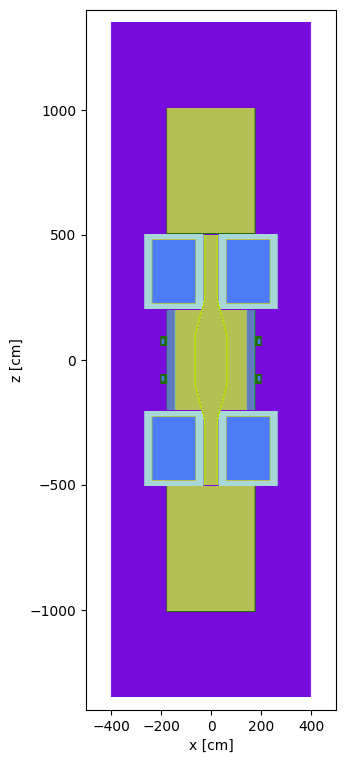
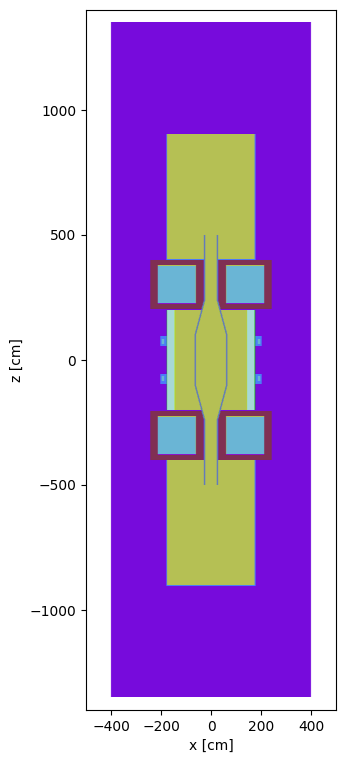
No Python inputs

Changed region(s): [[0.4046, 0.1206, 0.8092, 0.8139]]

diff --git a/model_constructor.py b/model_constructor.py
@@ -2,7 +2,6 @@ import openmc
 import numpy as np
 import matplotlib.pyplot as plt
 import material as m
-import parametric_input as param
 from geometry_lib import *
 from source_lib import *
 import yaml
@@ -88,14 +87,6 @@ central_cell = input_data.get("central_cell", {})
 central_cell_axial_length = central_cell.get("axial_length")
 
 central_cell_length_from_midplane = central_cell_axial_length / 2
-
-# Extract thickness values for different layers from parameters
-# breeder_thickness = param.breeding_blanket_thickness
-# back_wall_thickness = param.back_wall_thickness
-# he_manifold_thickness = param.helium_manifold_thickness
-# shield_front_plate_thickness = param.HT_shield_face_plate_thickness
-# shield_thickness = param.HT_shield_filler_thickness
-# shield_back_plate_thickness = param.HT_shield_back_plate_thickness
 
 # Load predefined central cell layers (thickness, material) from parameters
 
@@ -214,18 +205,16 @@ hf_coil = input_data.get("hf_coil", [])
 hf_coil_shield = hf_coil.get("shield",[])
 hf_coil_magnet = hf_coil.get("magnet", [])
 
+casing_layers_thickness  = np.array([layer["thickness"] for layer in hf_coil.get("casing_layers", [])])
+casing_layers_materials = np.array([getattr(m, layer["material"]) for layer in hf_coil.get("casing_layers",[])])
 
 hf_coil_center_z0 = (
     central_cell_length_from_midplane  
     + hf_coil_shield["shield_central_cell_gap"]           # Gap between HF shield and central cell
     + hf_coil_shield["axial_thickness"][0]    # Axial thickness of the shield (toward midplane)
-    + np.sum(param.hf_coil_casing_thicknesses)   # Total casing thickness
+    + np.sum(casing_layers_thickness)   # Total casing thickness
     + hf_coil_magnet["axial_thickness"] / 2          # Half of the magnet's axial thickness
 )
-
-# --- Define Casing Layer Thicknesses ---
-# The thickness values for different layers of the casing (e.g., vacuum, aluminum, steel)
-layers = param.hf_coil_casing_thicknesses
 
 # --- Compute Inner Radius for Magnet and Casing ---
 # The inner radius is determined by the bottleneck cylinder radius, the shield thickness,
@@ -233,7 +222,7 @@ layers = param.hf_coil_casing_thicknesses
 inner_radius_magnet_casings = (
     bottleneck_cylinders_radii[-1]               # Outermost bottleneck cylinder radius
     + hf_coil_shield["radial_thickness"][0]   # Shield thickness (toward central axis)
-    + hf_coil_shield["radial_gap_before_casing "]            # Extra spacing before the casing begins
+    + hf_coil_shield["radial_gap_before_casing"]            # Extra spacing before the casing begins
 )
 
 # --- Define Regions for Left and Right HF Coils ---
@@ -244,7 +233,7 @@ shield_regions_right = nested_cylindrical_shells(
     inner_radius_magnet_casings, 
     hf_coil_magnet["radial_thickness"], 
     hf_coil_magnet["axial_thickness"], 
-    layers, layers, layers
+    casing_layers_thickness, casing_layers_thickness, casing_layers_thickness
 )
 
 shield_regions_left = nested_cylindrical_shells(
@@ -252,7 +241,7 @@ shield_regions_left = nested_cylindrical_shells(
     inner_radius_magnet_casings, 
     hf_coil_magnet["radial_thickness"], 
     hf_coil_magnet["axial_thickness"], 
-    layers, layers, layers
+    casing_layers_thickness, casing_layers_thickness, casing_layers_thickness
 )
 
 # --- Define the HF Magnet Region ---
@@ -271,7 +260,7 @@ room_region &= ~ (hf_magnet_region_left | hf_magnet_region_right)  # Exclude mag
 # We iterate over these layers, assigning them the corresponding casing material.
 for i in range(1, len(shield_regions_left)):  
     combined_region = shield_regions_left[i] | shield_regions_right[i]
-    combined_region_cell = openmc.Cell(6500 + i, region=combined_region, fill=param.hf_coil_casing_materials[i - 1])
+    combined_region_cell = openmc.Cell(6500 + i, region=combined_region, fill=casing_layers_materials[i - 1])
 
     universe_machine.add_cells([combined_region_cell])
     room_region &= ~combined_region  # Exclude each casing layer from the room
@@ -282,19 +271,19 @@ for i in range(1, len(shield_regions_left)):
 # Total radial thickness of the HF outermost shell (coil + casing layers)
 inner_radial_thickness_hf_outermost_shell = (
     hf_coil_magnet["radial_thickness"] 
-    + 2 * np.sum(param.hf_coil_casing_thicknesses)  # Accounts for both sides of the casing
+    + 2 * np.sum(casing_layers_thickness)  # Accounts for both sides of the casing
 )
 
 # Total axial thickness of the HF outermost shell (coil + casing layers)
 inner_axial_thickness_hf_outermost_shell = (
     hf_coil_magnet["axial_thickness"] 
-    + 2 * np.sum(param.hf_coil_casing_thicknesses)  # Accounts for both sides of the casing
+    + 2 * np.sum(casing_layers_thickness)  # Accounts for both sides of the casing
 )
 
 # Compute the inner radius of the HF main shield (before applying the shell thickness)
 inner_radius_hf_main_shield = (
     bottleneck_cylinders_radii[-1]  # Outermost bottleneck radius
-    + param.radial_gap_before_casing  # Gap before casing begins
+    + hf_coil_shield["radial_gap_before_casing"]  # Gap before casing begins
 )
 
 # --- Define the HF Main Shield Region ---
@@ -325,13 +314,13 @@ hf_main_shield_left_region = hollow_cylinder_with_shell(
 hf_main_shield_right_cell = openmc.Cell(
     6201, 
     region=hf_main_shield_right_region, 
-    fill=param.hf_coil_main_shield_material  # Assign material to the shield
+    fill=getattr(m, hf_coil_shield["material"])   # Assign material to the shield
 )
 
 hf_main_shield_left_cell = openmc.Cell(
     6202, 
     region=hf_main_shield_left_region, 
-    fill=param.hf_coil_main_shield_material  # Assign material to the shield
+    fill=getattr(m, hf_coil_shield["material"])  # Assign material to the shield
 )
 
 # Add the HF main shield cell to the simulation
@@ -363,9 +352,9 @@ end_cell_radial_thickness = end_cell_diameter / 2  # Convert diameter to radius
 
 right_end_cell_z0 = (
     hf_coil_center_z0 
-    + param.hf_coil_shield_axial_thickness[0]  # Axial thickness of the shield (toward midplane)
-    + np.sum(param.hf_coil_casing_thicknesses)  # Total casing thickness
-    + param.hf_coil_axial_thickness / 2  # Half of the magnet's axial thickness
+    + hf_coil_shield["axial_thickness"][0]  # Axial thickness of the shield (toward midplane)
+    + np.sum(casing_layers_thickness)  # Total casing thickness
+    + hf_coil_magnet["axial_thickness"] / 2  # Half of the magnet's axial thickness
     + end_cell_shell_thickness  # Shell thickness of the end cell
     + end_cell_axial_length / 2  # Half of the end cell's axial length
 )
@@ -400,13 +389,13 @@ right_end_cell_shell &= ~vacuum_section_regions[-1]
 end_cell_left_shell_cell = openmc.Cell(
     5001, 
     region=left_end_cell_shell, 
-    fill=param.end_cell_shell_material  # Material for the shell
+    fill=getattr(m, end_cell["shell_material"])  # Material for the shell
 )
 
 end_cell_left_inner_cell = openmc.Cell(
     5002, 
     region=left_end_cell_inner, 
-    fill=m.vacuum  # Inner region is a vacuum
+    fill=getattr(m, end_cell["inner_material"])  # Material for inside the end cell
 )
 
 # Add left end cell components to the simulation
@@ -416,13 +405,13 @@ universe_machine.add_cells([end_cell_left_shell_cell, end_cell_left_inner_cell])
 end_cell_right_shell_cell = openmc.Cell(
     5003, 
     region=right_end_cell_shell, 
-    fill=param.end_cell_shell_material  # Material for the shell
+    fill=getattr(m, end_cell["shell_material"])  # Material for the shell
 )
 
 end_cell_right_inner_cell = openmc.Cell(
     5004, 
     region=right_end_cell_inner, 
-    fill=m.vacuum  # Inner region is a vacuum
+    fill=getattr(m, end_cell["inner_material"])  # Material for inside the end cell
 )
 
 # Add right end cell components to the simulation

diff --git a/try_yaml.py b/try_yaml.py
@@ -6,10 +6,10 @@ import material as m
 import matplotlib.pyplot as plt
 # ________________________________________ Get the source from Settings information file ________________________________________ #
 
-with open('source_information.yaml', 'r') as f:
+with open('input_files/source_information.yaml', 'r') as f:
     source_data = yaml.safe_load(f)
 
-openmc_source = load_source_from_yaml('source_information.yaml')
+openmc_source = load_source_from_yaml('input_files/source_information.yaml')
 
 settings = openmc.Settings()
 settings.run_mode = "fixed source"
@@ -113,7 +113,7 @@ def hollow_mesh_from_domain(region, dimensions= [10, 10, 10], phi_grid_bounds=(0
 
 
 
-with open('parametric_input.yaml', 'r') as f:
+with open('input_files/parametric_input.yaml', 'r') as f:
     input_data = yaml.safe_load(f)
 
 vacuum_vessel = input_data.get("vacuum_vessel",{})
@@ -147,3 +147,9 @@ lf_coil_centers = lf_coil.get("positions",[])
 lf_coil_inner_dimensions = lf_coil.get("inner_dimensions", [])
 
 print(lf_coil_inner_dimensions["radial_thickness"])
+
+
+hf_coil = input_data.get("hf_coil", [])
+
+casing_thickness  = [layer["thickness"] for layer in hf_coil.get("casing_layers", [])]
+print(f"Casing layer thicknesses {casing_thickness}")
